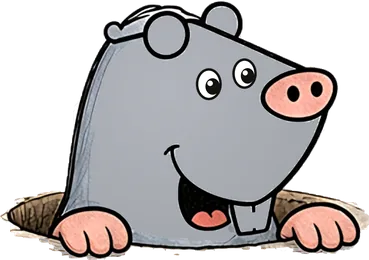
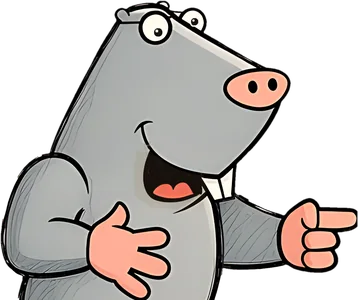
Spel: Moos zoals in de film

diff --git a/js/spel.js b/js/spel.js
@@ -33,6 +33,7 @@
     fien: beeld("assets/figuren/fien.webp"),
     fien2: beeld("assets/spel/fien-vleugel.webp"),
     moos: beeld("assets/spel/moos.webp"),
+    moosJuich: beeld("assets/spel/moos-juich.webp"),
     bolleke: beeld("assets/figuren/bolleke.webp"),
     papier: beeld("assets/papier.png")
   };
@@ -269,7 +270,7 @@
     g.lineTo(W, grond + 10); g.lineTo(0, grond + 10); g.closePath(); g.fill();
     g.fillStyle = "rgba(84,56,30,.18)"; for (var i = 0; i < 26; i++) { g.beginPath(); g.ellipse((i * 137) % W, grond + 18 + (i * 53) % Math.max(10, H - grond - 22), 6, 2.5, 0, 0, Math.PI * 2); g.fill(); }
     /* mollenhopen in de hoeken */
-    [W * .07, W * .93].forEach(function (x) {
+    [W * MOOS_X, W * (1 - MOOS_X)].forEach(function (x) {
       g.fillStyle = "#7a5230"; g.beginPath(); g.ellipse(x, grond + 6, 62, 13, 0, 0, Math.PI * 2); g.fill();
       g.fillStyle = "#3a2614"; g.beginPath(); g.ellipse(x, grond + 6, 46, 8, 0, 0, Math.PI * 2); g.fill();
     });
@@ -283,6 +284,7 @@
   var bram = { x: 400, w: 163, h: 172, doel: null, v: 0, kantel: 0, bah: 0, plof: 0, hop: 0, mand: [] };
   var dingen = [], deeltjes = [], teksten = [];
   var fien = null, moos = null, ballon = null;
+  var MOOS_X = .12;          /* plaats van de mollenhopen (deel van de breedte) */
   var punten = 0, tijd = 0, volgende = 0, volgendeFien = 0, reeks = 0, laatsteTik = 99, bijnaGezegd = false, schud = 0;
   var toetsL = false, toetsR = false;
 
@@ -339,7 +341,7 @@
   /* ---------- figuren ---------- */
   function moosZegt(tekst) {
     var links = bram.x > W / 2;            /* Moos komt op aan de andere kant dan Bram */
-    moos = { x: links ? W * .07 : W * .93, t: 0, duur: 2.2, tekst: tekst };
+    moos = { x: links ? W * MOOS_X : W * (1 - MOOS_X), t: 0, duur: 2.2, tekst: tekst, juich: tekst !== "Vang ze!" };
     speel("moos");
   }
   function bramZegt(tekst) { ballon = { tekst: tekst, t: 0, duur: 1 }; }
@@ -481,6 +483,18 @@
     ctx.fillStyle = LIJN; ctx.textAlign = "center"; ctx.textBaseline = "middle"; ctx.fillText(tekst, x, t + bh * .54);
   }
 
+  /* voorkant van een molshoop: aarde met kluitjes, over de onderkant van Moos */
+  function molshoop(x) {
+    var b = 70, h = 22, y = grond + 10;
+    ctx.beginPath(); ctx.moveTo(x - b, y + 4); ctx.quadraticCurveTo(x - b * .55, y - h * 1.1, x, y - h); ctx.quadraticCurveTo(x + b * .55, y - h * 1.1, x + b, y + 4); ctx.closePath();
+    ctx.fillStyle = "#6e4a2b"; ctx.fill(); ctx.lineWidth = 2.5; ctx.strokeStyle = "#3a2614"; ctx.stroke();
+    for (var i = 0; i < 9; i++) {
+      var u = (i / 8) * 2 - 1, kx = x + u * b * .78, ky = y - h * (1 - u * u) * .85 + (i % 3) * 3, kr = 6 + (i * 7 % 5);
+      ctx.beginPath(); ctx.ellipse(kx, ky, kr * 1.3, kr, (i * .7) % 3, 0, Math.PI * 2);
+      ctx.fillStyle = i % 2 ? "#5a3a20" : "#87603a"; ctx.fill(); ctx.lineWidth = 1.5; ctx.stroke();
+    }
+  }
+
   function tekenMand(m) {
     var l = m.x - m.w / 2, t = m.top, w = m.w, h = m.h;
     /* wat er al in de mand zit */
@@ -504,16 +518,20 @@
 
     var moosWolk = null;
     /* Moos uit zijn hoopje */
+    /* Moos (uit de film) komt uit zijn molshoop; bij het juichen wisselt hij tussen twee tekeningen */
     if (moos && ok(IMG.moos)) {
-      var mw = Math.min(W * .24, 150), mh = mw * IMG.moos.naturalHeight / IMG.moos.naturalWidth;
+      var mimg = IMG.moos;
+      if (moos.juich && ok(IMG.moosJuich)) mimg = rustig.matches || Math.floor(moos.t / .35) % 2 === 0 ? IMG.moosJuich : IMG.moos;
+      var mw = Math.min(W * .26, 170), mh = mw * mimg.naturalHeight / mimg.naturalWidth;
       var f = moos.t < .3 ? moos.t / .3 : moos.t > moos.duur - .3 ? (moos.duur - moos.t) / .3 : 1;
       if (rustig.matches) f = 1;
       ctx.save(); ctx.beginPath(); ctx.rect(0, 0, W, grond + 8); ctx.clip();
-      var my = grond + 8 - mh * (.15 + .85 * f);
+      var my = grond + 10 - mh * (.1 + .9 * f);
       var spiegel = moos.x > W / 2 ? -1 : 1;
-      ctx.translate(moos.x, my); ctx.scale(spiegel, 1); ctx.drawImage(IMG.moos, -mw / 2, 0, mw, mh); ctx.restore();
-      if (f > .8) moosWolk = [moos.x + (moos.x > W / 2 ? -mw * .35 : mw * .35), my - 6, moos.tekst, 26, moos.x];
+      ctx.translate(moos.x, my); ctx.scale(spiegel, 1); ctx.drawImage(mimg, -mw * .42, 0, mw, mh); ctx.restore();
+      if (f > .8) moosWolk = [moos.x + (moos.x > W / 2 ? -mw * .3 : mw * .3), my - 6, moos.tekst, 26, moos.x];
     }
+    [W * MOOS_X, W * (1 - MOOS_X)].forEach(molshoop);
 
     /* Fien */
     if (fien && ok(IMG.fien)) {
